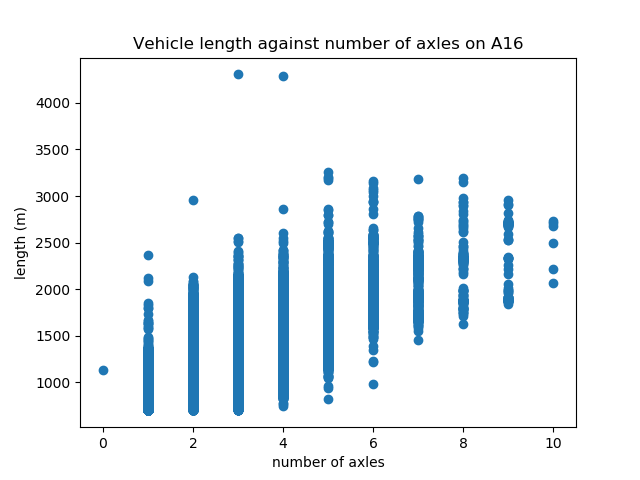
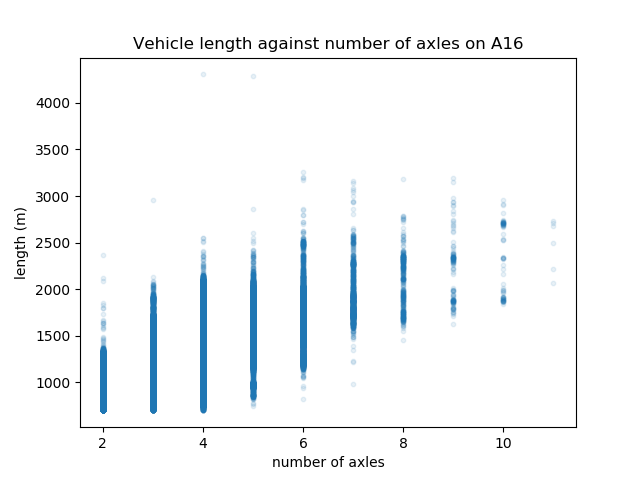
A16 traffic plots

diff --git a/code/data/normal/a16.py b/code/data/normal/a16.py
@@ -101,53 +101,66 @@ def plot_hist_and_kde_per_type(df):
         plot_hist_and_kde(group, density=False, title=f"Type {type_}")
 
 
-def num_axles(axle_distances: str) -> int:
-    """The number of axles from an axle_distance array as a string."""
-    distances = axle_distances.replace(
+def axle_array_and_count(axle_array_str: str) -> int:
+    """Return an axle array and count of non zero values from a string."""
+    axle_array_str = axle_array_str.replace(
         "'", "").replace("[", "").replace("]", "")
-    distances = list(
-        filter(lambda x: x != 0, map(float, distances.split(","))))
-    return len(distances)
+    axle_array = list(map(float, axle_array_str.split(",")))
+    count_non_zero = len(list(filter(lambda x: x != 0, axle_array)))
+    return axle_array, count_non_zero
 
 
-def scatter_plots(c: Config, a16_data: pd.DataFrame, show=False, save=False):
+def make_scatter_plots(c: Config, a16_data: pd.DataFrame):
     # Length against weight.
-    plt.scatter(a16_data["total_weight"], a16_data["length"])
+    plt.scatter(a16_data["total_weight"], a16_data["length"], s=10, alpha=0.1)
     plt.title("Vehicle length against weight on A16")
     plt.ylabel("length (m)")
     plt.xlabel("weight (kg)")
-    if save:
-        plt.savefig(os.path.join(c.images_dir, "a16-weight-vs-length"))
-    if show: plt.show()
-    if save or show: plt.close()
+    plt.savefig(os.path.join(c.images_dir, "a16-weight-vs-length"))
+    plt.close()
 
     # Length against number of axles.
-    num_axles_column = a16_data["axle_distance"].apply(num_axles)
-    plt.scatter(num_axles_column, a16_data["length"])
+    num_axles_column = a16_data["weight_per_axle"].apply(
+        lambda s: axle_array_and_count(s)[1])
+    plt.scatter(num_axles_column, a16_data["length"], s=10, alpha=0.1)
     plt.title("Vehicle length against number of axles on A16")
     plt.ylabel("length (m)")
     plt.xlabel("number of axles")
-    if save:
-        plt.savefig(os.path.join(c.images_dir, "a16-length-vs-num-axles"))
-    if show: plt.show()
-    if save or show: plt.close()
+    plt.savefig(os.path.join(c.images_dir, "a16-length-vs-num-axles"))
+    plt.close()
 
     # Weight against number of axles.
-    plt.scatter(num_axles_column, a16_data["total_weight"])
+    plt.scatter(num_axles_column, a16_data["total_weight"], s=10, alpha=0.1)
     plt.title("Vehicle weight against number of axles on A16")
     plt.ylabel("weight (kg)")
     plt.xlabel("number of axles")
-    if save:
-        plt.savefig(os.path.join(c.images_dir, "a16-weight-vs-num-axles"))
-    if show: plt.show()
-    if save or show: plt.close()
+    plt.savefig(os.path.join(c.images_dir, "a16-weight-vs-num-axles"))
+    plt.close()
+
+    # Fair amount of load per axle.
+    axle_weights_and_counts = a16_data["weight_per_axle"].apply(
+        axle_array_and_count)
+    axle_nums = []
+    axle_fair_amounts = []
+    for axle_weights, num_axles in axle_weights_and_counts:
+        total_weight = sum(axle_weights)
+        for i in range(len(axle_weights)):
+            if axle_weights[i] != 0:
+                axle_nums.append(i + 1)
+                axle_fair_amounts.append(
+                    (axle_weights[i] / total_weight) * num_axles)
+    plt.scatter(axle_nums, axle_fair_amounts, s=10, alpha=0.1)
+    plt.title("Weight distribution per axle on A16")
+    plt.ylabel("(weight / total weight) x #axles")
+    plt.xlabel("axle position")
+    plt.savefig(os.path.join(c.images_dir, "a16-fair-amount-per-axle"))
 
 
 if __name__ == "__main__":
     c = bridge_705_config()
     # raw_to_df_csv(c, "../data/a16-data/A16.dat")
     a16_data = load_a16_data(c)
-    scatter_plots(c, a16_data, save=True)
+    make_scatter_plots(c, a16_data)
     print(a16_data.loc[:10, :"total_weight"])
     print(a16_data.loc[:10, "weight_per_axle":])
     # plot_hist_and_kde(df["total_weight"], bins=100)
